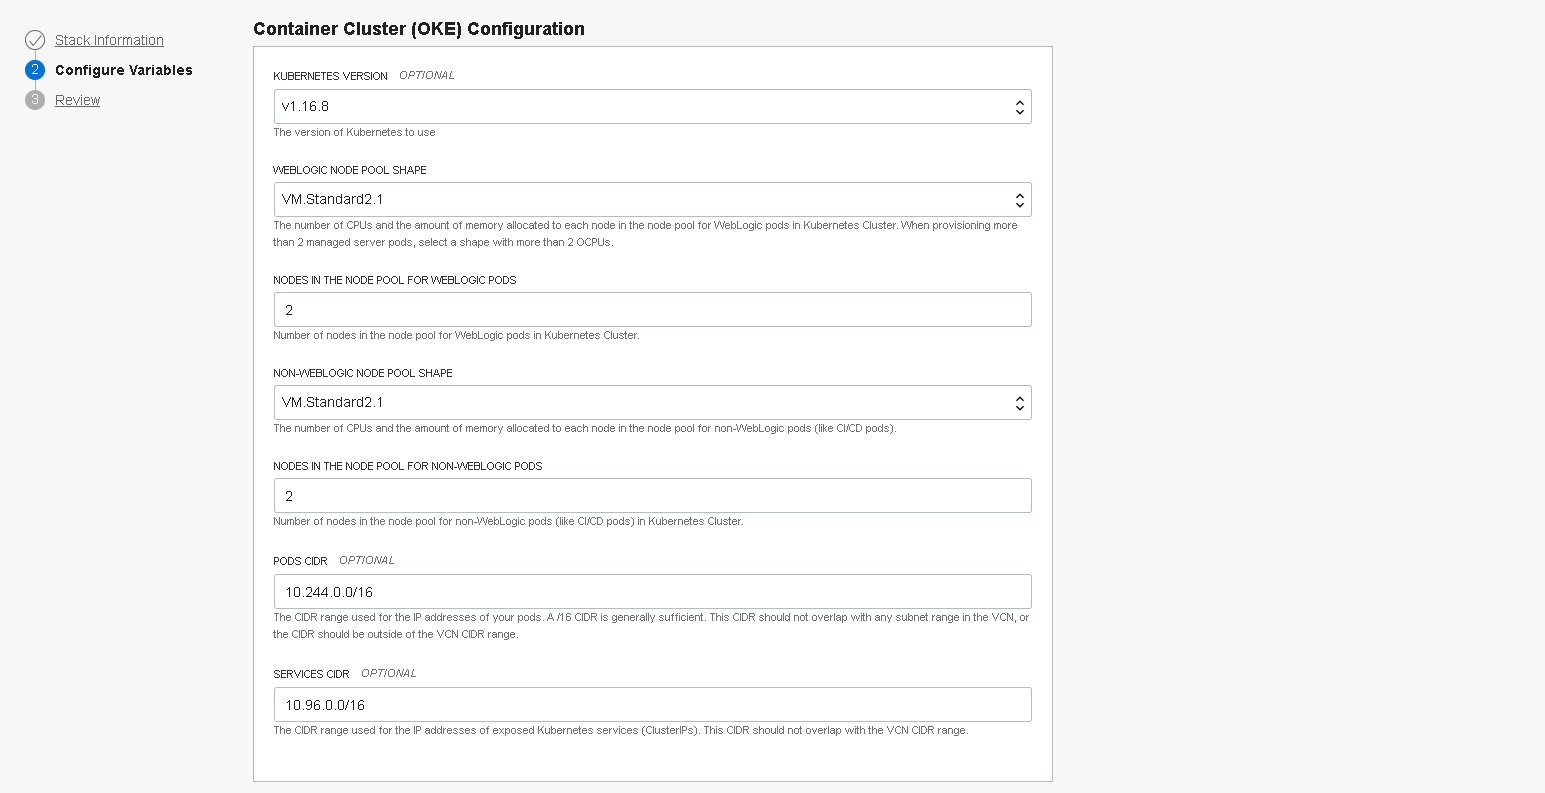
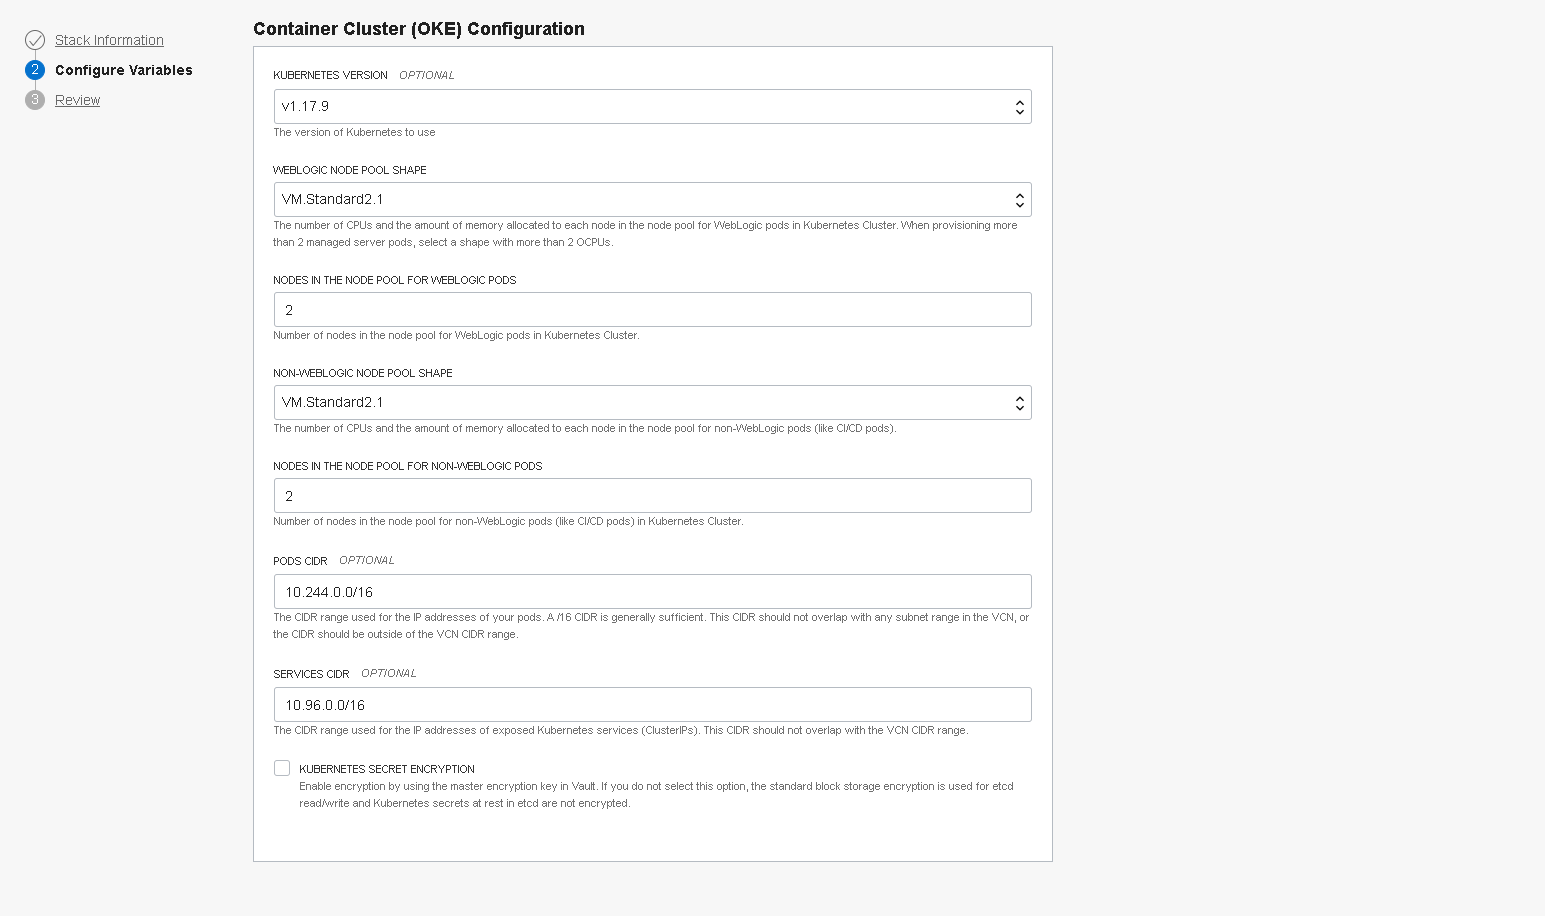
fix typos update with latest options when provisioning WLS for OKE skip Steps 1.1 and 1.2 in the Prerequisites if OCI Admin

Changed region(s): [[0.1553, 0.0, 0.6524, 0.9382], [0.0, 0.0303, 0.1243, 0.1513], [0.6524, 0.1211, 0.6835, 0.1513]]

diff --git a/AppDev/wls/ll-wls-for-oke-nonjrf/wlsforocionoke.md b/AppDev/wls/ll-wls-for-oke-nonjrf/wlsforocionoke.md
@@ -99,6 +99,7 @@ Next, in the **Container Cluster (OKE) Configuration** Section:
 - **Nodes in the Node Pool for Non-WebLogic Pods**: *2*
 - **Pods CIDR**: leave default
 - **Services CIDR**: leave default
+- **Kubernetes Secret Encryption**: leave default (unchecked)
 
 ![](images/wlsforocionoke/image-080.png) 
 
@@ -126,7 +127,7 @@ On **Network** configuration:
 
 
 
-Scroll down and leave *No Database* for **Database** configuration. We'll provision a Non-JRF WebLogic Domain.
+Scroll down and leave **Provision with JRF** unchecked to skip database configuration. We'll provision a Non-JRF WebLogic Domain.
 
 For the **File System** choose one of the Availability Domain. A File System and a Mount Target will be created in that particular AD. From Service Limits perspective, choose one that allows creation of new Shared File System resources.
 
@@ -143,6 +144,12 @@ Last part of the Stack configuration is addressing connectivity to OCI Registry 
 For the **Secrets OCID For Registry Authentication Token** use the OCID of the WLS Registry Secret created in the prerequisites lab:
 
 ![](images/wlsforocionoke/image-130.png)
+
+
+
+Finally, leave **OCI Policies** option checked and the provisioning scripts will create required policies for reading Secrets from the Vault:
+
+![](images/wlsforocionoke/image-135.png)
 
 
 
@@ -410,7 +417,7 @@ On Windows:
 > netstat -a
 ```
 
-(look for port `TCP    127.0.0.1:1088` line)
+(look for `TCP    127.0.0.1:1088` line)
 
 
 
@@ -425,7 +432,7 @@ Open **Firefox** browser, go to  *Options*, scroll down to *Network Settings* an
 Once done that, open a new browser tab and navigate to WebLogic Admin Console:
 
 ```
-http://<private load balancer ip>://console
+http://<private load balancer ip>/console
 ```
 
 
@@ -445,7 +452,7 @@ Navigate to *Environments* > *Servers* to check for the running Managed Servers.
 In another browser tab, open the Jenkins console:
 
 ```
-http://<private load balancer ip>://jenkins
+http://<private load balancer ip>/jenkins
 ```
 
 
@@ -464,7 +471,7 @@ Once done that, a Success message appears. Click on the *Go back to the top page
 
 This leads us to the Jenkins Dashboard page displaying several pre-configured Pipelines that will help us manage the WebLogic for OKE. 
 
-Don't forget that with WebLogic running on top of Kubernetes, any change to the running WebLogic Domain (like domain configuration, deploying/undeploying applications or managing Managed Servers) it's not recommended and it's not a best practice. Everything has to be done through the CI/CD flows that will update the WebLogic Domain model, push the WebLogic Image to OCI Registry and then re-create the Kubernetes Pods.
+Don't forget that with WebLogic running on top of Kubernetes, any change to the running WebLogic Domain (like domain configuration, deploying/un-deploying applications or managing Managed Servers) it's not recommended and it's not a best practice. Everything has to be done through the CI/CD flows that will update the WebLogic Domain model, push the WebLogic Image to OCI Registry and then re-create the Kubernetes Pods.
 
 ![](images/wlsforocionoke/image-470.png)
 

diff --git a/AppDev/wls/ll-wls-for-oke-nonjrf/wlsforocionokeprereq.md b/AppDev/wls/ll-wls-for-oke-nonjrf/wlsforocionokeprereq.md
@@ -24,6 +24,8 @@ Take note of the compartment **OCID**:
 
 The Compartment name is referred as **CTDOKE** in the Hands on Labs.
 
+**Note:** If you <u>are</u> an Oracle **Cloud Infrastructure administrator** or if you are <u>using</u> a **Oracle Cloud Trial Account** (in which case you are an OCI administrator by default), you may **skip** steps **1.1** and **1.2** as no root or compartment level policies are required to run the Hands on Labs.
+
 
 
 ### 1.1 Required root level policies for WebLogic for OKE
@@ -198,7 +200,7 @@ Go to *Secrets* submenu of the Vault Information page and create an new Secret:
 
 
 
-Setup a name for the OCI Secret; choose previously created Encryption Key (**WLSKey**) in the *Encryption Key* dropdown. If you leave default value for *Secret Type Template* (**Plain-Text**), you have to enter the plain-text WebLogic Admin password in the *Secret Contents* aria. If you switch to **Base64** template, you need to provide the password pre-encoded in base64.
+Setup a name for the OCI Secret; choose previously created Encryption Key (**WLSKey**) in the *Encryption Key* dropdown. With default option for *Secret Type Template* (**Plain-Text**), you have to enter the WebLogic Admin password as-is (the plain-text) in the *Secret Contents* aria. If you switch to **Base64** secret type template, you need to provide the WebLogic Admin password pre-encoded in base64.
 
 
 
